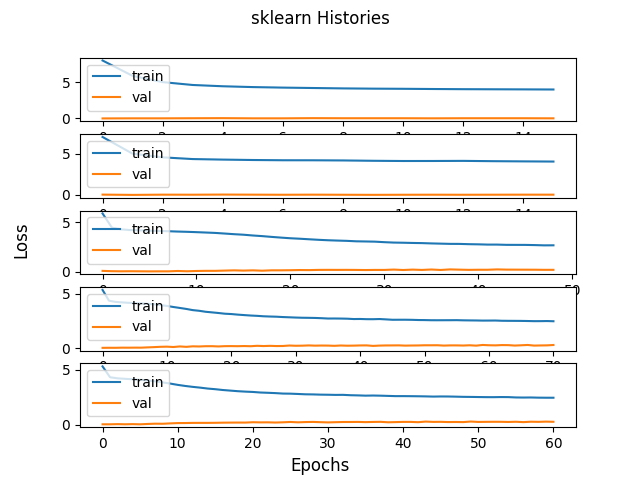
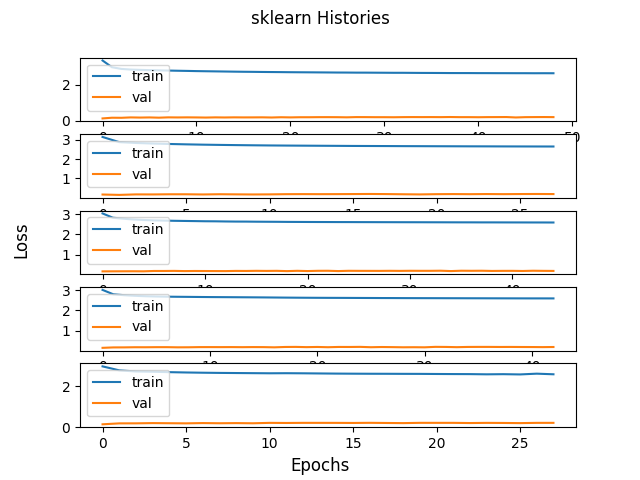
Results - 4node data

diff --git a/utils/eval_utils.py b/utils/eval_utils.py
@@ -29,8 +29,7 @@ def eval_model(model, x_test, y_test):
 def run_eval(model_type, x_train, x_test, y_train, y_test):
     evals = []
 
-    match model_type:
-        case 'tf':
+    if model_type == 'tf':
             for i in TRAIN_SET_PERCENTAGE:
                 test_sz = i/100
                 _, x_slice, _, y_slice = train_test_split(x_train, y_train, test_size=test_sz)
@@ -40,7 +39,7 @@ def run_eval(model_type, x_train, x_test, y_train, y_test):
                 eval_res['train_val_loss'] = (history.history['loss'], history.history['val_loss'])
                 eval_res['train_sz'] = (test_sz, len(x_slice))
                 evals.append(eval_res)
-        case 'sklearn':
+    elif model_type == 'sklearn':
             for i in TRAIN_SET_PERCENTAGE:
                 test_sz = i/100
                 x_val_slice, x_slice, y_val_slice, y_slice = train_test_split(x_train, y_train, test_size=test_sz)
@@ -49,4 +48,5 @@ def run_eval(model_type, x_train, x_test, y_train, y_test):
                 eval_res['train_val_loss'] = (model.loss_curve_, model.validation_scores_)
                 eval_res['train_sz'] = (test_sz, len(x_slice))
                 evals.append(eval_res)
+        
     return merge_dicts(evals)

diff --git a/constants.py b/constants.py
@@ -9,13 +9,13 @@ TO_FILE = True
 # Directories
 OUTPUT_FILE = 'result.tmp'
 FIG_DIR = 'figs/'
-DATA_LOCATION = 'data/data2node.txt'
+DATA_LOCATION = 'data/data4node.txt'
 
 # Model Parameters
-MULT_FACTOR = [1,2,3,4,5]
+MULT_FACTOR = [1,2,3,4]
 DUP_FACTOR = 3
 TRAIN_SET_PERCENTAGE = [15, 35, 55, 75, 95]
-GRAPH_SIZE = 2
+GRAPH_SIZE = 4
 RANDOM_SEED = 42
 
 #Pretrained model defaults
